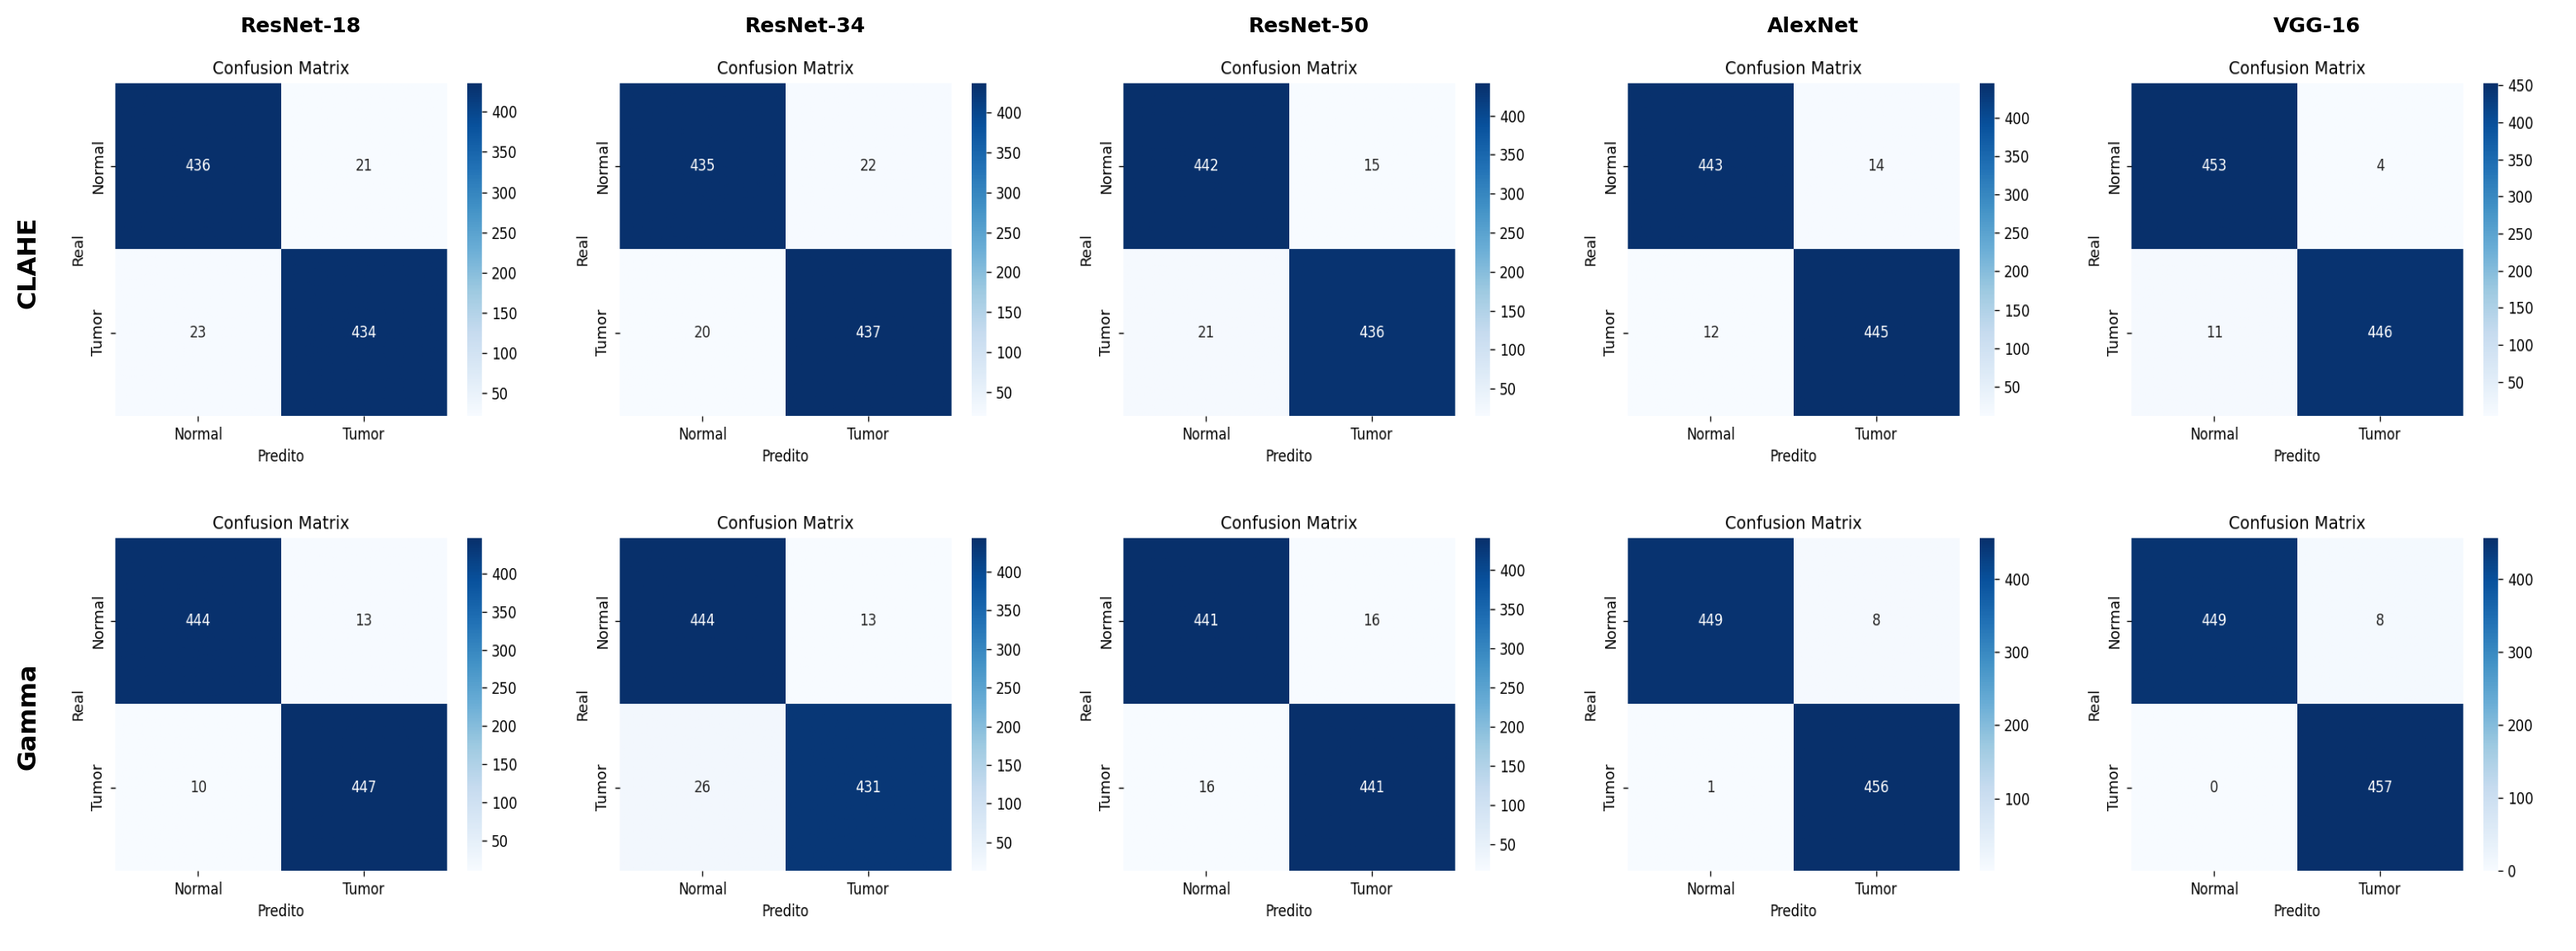
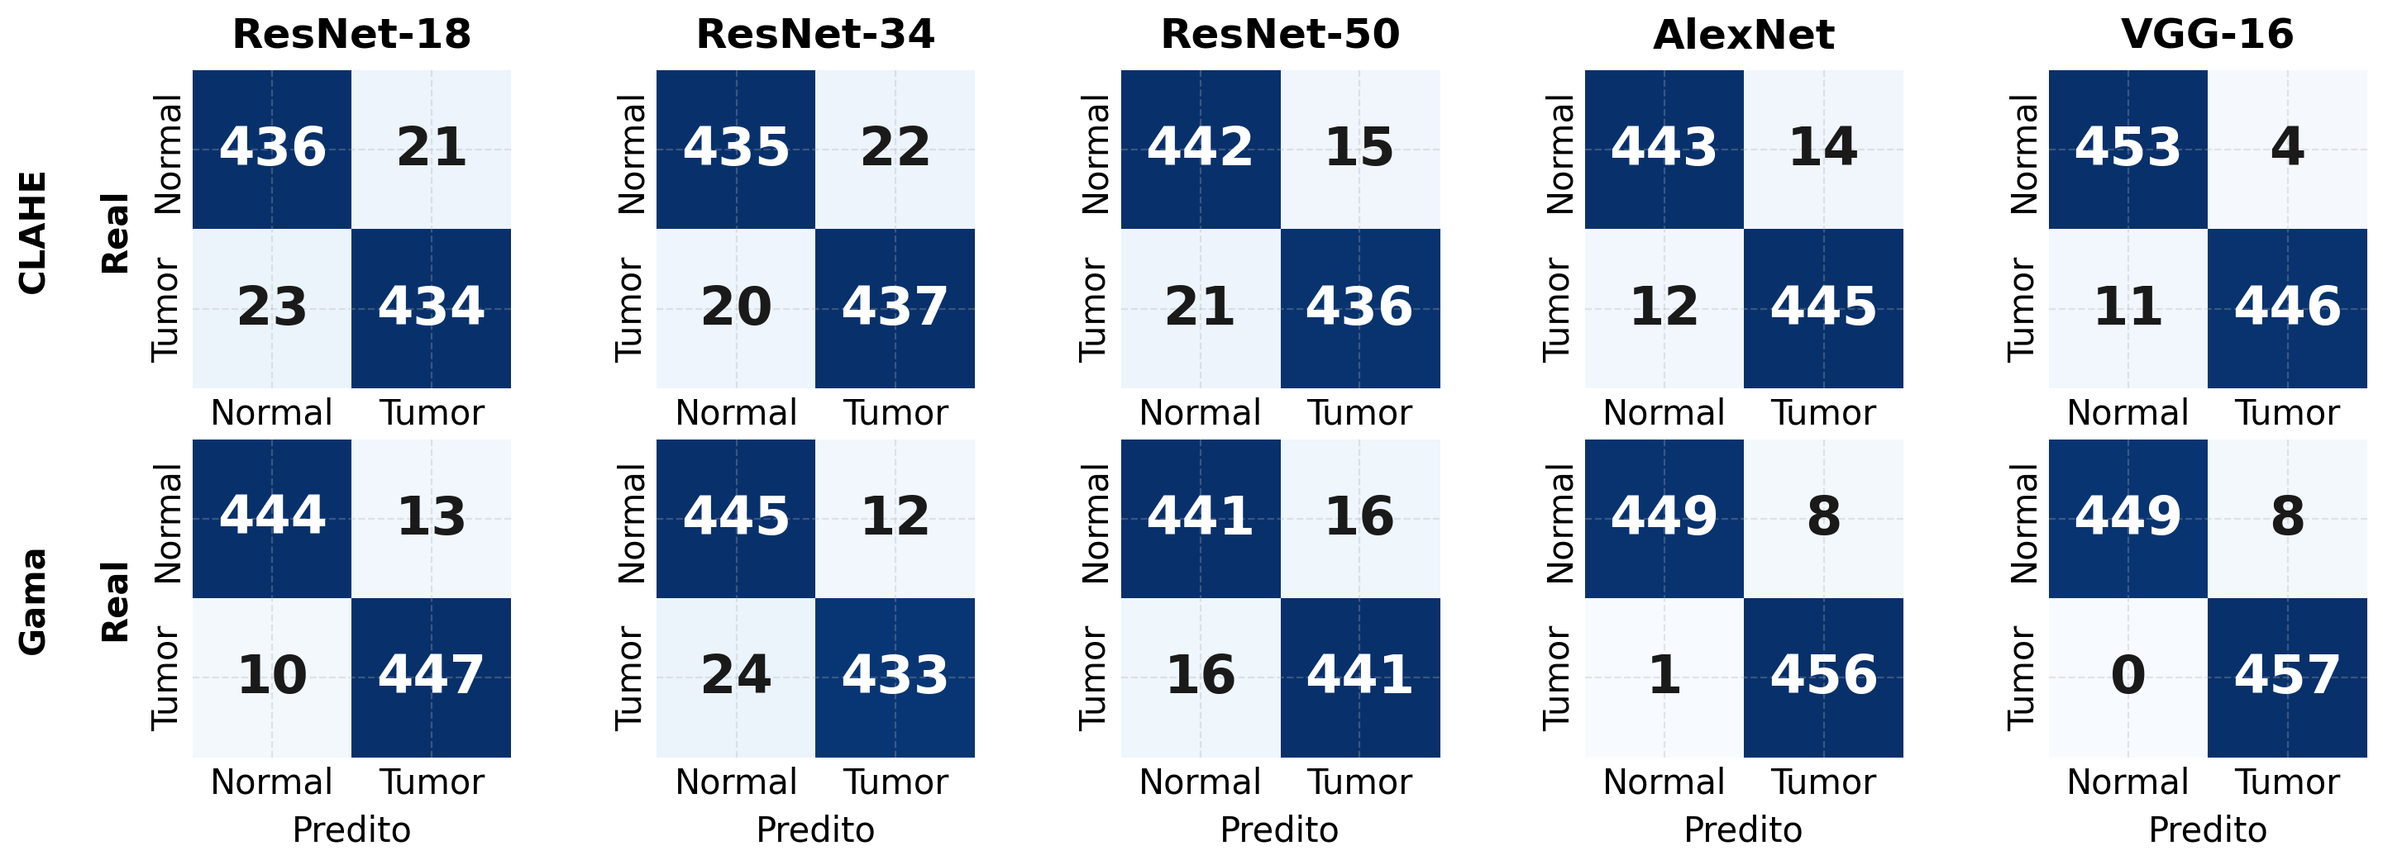
Reavalia experimentos com determinismo e refaz a Fig. 4
Revisor 1 (item 5) pediu fontes maiores na Fig. 4. A figura era montada
colando os PNGs de cada run, que ficavam ilegíveis ao serem reescalonados
para a largura da página. Agora as matrizes são desenhadas a partir das
contagens, com fontes dimensionadas para o tamanho final.

Ao conferir a origem dos números, 3 das 15 células da Tabela I não batiam
com os dados em disco: o retest.py sobrescrevia apenas o test_results.yaml
sem regerar as matrizes, deixando figura e tabela divergentes — inclusive
no PDF submetido, onde a Fig. 4 mostrava 99,02% para AlexNet+Gama enquanto
a tabela dizia 98,80%.

Causa: inferência não determinística (seleção de kernel do cuDNN). Corrigido
com cudnn.deterministic; duas execuções seguidas agora dão resultados
idênticos. Os 15 experimentos foram reavaliados a partir dos pesos salvos,
sem retreino.

Tabela I atualizada (ResNet-34 Gama, ResNet-50 Base, AlexNet Gama), com os
negritos recalculados, e o texto ajustado. A correção gama passa a
beneficiar as cinco arquiteturas sem exceção.

Também corrige os tamanhos do split (2.738/914/914, antes 2.739/913/914)
e o rótulo "Gamma" para "Gama" nas figuras.

diff --git a/docs/plot_results.py b/docs/plot_results.py
@@ -19,11 +19,15 @@ ROOT_DIR   = SCRIPT_DIR.parent                      # Etapa1/
 RUNS_DIR   = ROOT_DIR / 'runs'
 OUT_DIR    = SCRIPT_DIR
 
+import yaml
 import pandas as pd
 import matplotlib
 matplotlib.use('Agg')
 import matplotlib.pyplot as plt
 import numpy as np
+
+CLASSES        = ['Normal', 'Tumor']
+N_POR_CLASSE   = 457          # conjunto de teste balanceado: 914 amostras
 
 # ── Configuração ──────────────────────────────────────────────────────────────
 
@@ -36,7 +40,7 @@ MODELS = [
 ]
 CONDITIONS = [
     ('CLAHE', 'clahe'),
-    ('Gamma', 'gamma'),
+    ('Gama',  'gamma'),
 ]
 
 BLUE   = '#2E75B6'
@@ -170,46 +174,89 @@ def plot_loss_curves():
 
 # ── Figura 3: Matrizes de Confusão Compostas ──────────────────────────────────
 
-def compose_confusion():
-    n_cond = len(CONDITIONS)
-    n_mod  = len(MODELS)
+def load_counts(slug: str, cond: str):
+    """
+    Lê (TN, FP, FN, TP) do test_results.yaml do run.
 
+    As contagens são gravadas pelo retest.py. Para runs avaliados antes dessa
+    mudança, deriva-as de precisão e recall — exato, pois o conjunto de teste
+    é balanceado (457 amostras por classe).
+    """
+    path = RUNS_DIR / f'{slug}_{cond}' / 'test_results.yaml'
+    if not path.exists():
+        print(f'  [AVISO] não encontrado: {path}')
+        return None
+
+    d = yaml.safe_load(path.read_text(encoding='utf-8'))
+    if all(k in d for k in ('test_tn', 'test_fp', 'test_fn', 'test_tp')):
+        return d['test_tn'], d['test_fp'], d['test_fn'], d['test_tp']
+
+    prec, rec = d['test_precision'], d['test_recall']
+    tp = round(rec / 100 * N_POR_CLASSE)
+    fn = N_POR_CLASSE - tp
+    fp = round(tp * (100 - prec) / prec) if prec > 0 else 0
+    tn = N_POR_CLASSE - fp
+    print(f'  [nota] {slug}_{cond}: contagens derivadas das métricas')
+    return tn, fp, fn, tp
+
+
+def compose_confusion():
+    """
+    Desenha as matrizes de confusão a partir das contagens.
+
+    A versão anterior colava os PNGs de cada run, que ficavam ilegíveis após o
+    reescalonamento para a largura da página.
+    """
+    # Proporção mantida próxima de 2,7:1 para que a figura ocupe a mesma
+    # altura de coluna da versão anterior e a paginação do artigo não mude.
+    n_cond, n_mod = len(CONDITIONS), len(MODELS)
     fig, axes = plt.subplots(
         n_cond, n_mod,
-        figsize=(18, 7),
-        gridspec_kw={'hspace': 0.04, 'wspace': 0.04},
+        figsize=(17.5, 5.4),
+        gridspec_kw={'hspace': 0.16, 'wspace': 0.20},
     )
 
     for ci, (cond_label, cond_slug) in enumerate(CONDITIONS):
         for mi, (model_label, model_slug) in enumerate(MODELS):
-            ax = axes[ci, mi]
-            img_path = RUNS_DIR / f'{model_slug}_{cond_slug}' / 'confusion_matrix.png'
+            ax     = axes[ci, mi]
+            counts = load_counts(model_slug, cond_slug)
 
-            if img_path.exists():
-                img = plt.imread(str(img_path))
-                ax.imshow(img, aspect='auto')
-            else:
-                print(f'  [AVISO] matriz não encontrada: {img_path}')
+            if counts is None:
                 ax.set_facecolor('#eeeeee')
                 ax.text(0.5, 0.5, 'N/A', ha='center', va='center',
-                        transform=ax.transAxes, fontsize=13, color='#888888')
+                        transform=ax.transAxes, fontsize=16, color='#888888')
+                ax.set_xticks([]); ax.set_yticks([])
+                continue
 
-            # Esconde ticks e bordas, mantém ylabel visível
-            ax.set_xticks([])
-            ax.set_yticks([])
-            for spine in ax.spines.values():
-                spine.set_visible(False)
+            tn, fp, fn, tp = counts
+            cm = np.array([[tn, fp], [fn, tp]])
 
-            # Nome do modelo — só na primeira linha
+            ax.imshow(cm, cmap='Blues', vmin=0, vmax=cm.max())
+
+            # Valores nas células, com contraste conforme o fundo
+            limiar = cm.max() / 2
+            for i in range(2):
+                for j in range(2):
+                    ax.text(j, i, f'{cm[i, j]:d}',
+                            ha='center', va='center',
+                            fontsize=23, fontweight='bold',
+                            color='white' if cm[i, j] > limiar else '#1a1a1a')
+
+            ax.set_xticks([0, 1]); ax.set_yticks([0, 1])
+            ax.set_xticklabels(CLASSES, fontsize=15)
+            ax.set_yticklabels(CLASSES, fontsize=15, rotation=90, va='center')
+            ax.tick_params(length=0)
+            for s in ax.spines.values():
+                s.set_visible(False)
+
             if ci == 0:
-                ax.set_title(model_label, fontsize=9, fontweight='bold', pad=5)
-
-            # Rótulo da condição — só na primeira coluna, vertical
+                ax.set_title(model_label, fontsize=18, fontweight='bold', pad=10)
+            if ci == n_cond - 1:
+                ax.set_xlabel('Predito', fontsize=15, labelpad=6)
             if mi == 0:
-                ax.set_ylabel(cond_label, fontsize=11, fontweight='bold',
-                              rotation=90, labelpad=8)
+                ax.set_ylabel(f'{cond_label}\n\nReal', fontsize=15,
+                              fontweight='bold', labelpad=8)
 
-    plt.subplots_adjust(left=0.06)
     out = OUT_DIR / 'fig_confusion.png'
     fig.savefig(out, dpi=200, bbox_inches='tight')
     plt.close(fig)

diff --git a/docs/main.tex b/docs/main.tex
@@ -374,8 +374,8 @@ objetivo de discriminação entre tecido renal saudável e tumoral. Para
 garantir equilíbrio entre as classes, foram selecionadas aleatoriamente
 2.283 imagens da classe Normal (correspondendo ao total disponível da classe
 Tumor), totalizando 4.566 imagens. O conjunto balanceado foi dividido de
-forma estratificada nas proporções de 60\% treino (2.739 imagens), 20\%
-validação (913 imagens) e 20\% teste (914 imagens), com semente aleatória
+forma estratificada nas proporções de 60\% treino (2.738 imagens), 20\%
+validação (914 imagens) e 20\% teste (914 imagens), com semente aleatória
 $s{=}42$ para reprodutibilidade. A Fig.~\ref{fig:pipeline} ilustra o fluxo
 completo desde a seleção dos dados até a avaliação.
 
@@ -520,19 +520,19 @@ experimentos. Resultados em negrito indicam o melhor valor por modelo.
  & Gama & \textbf{97,48} & 97,17 & \textbf{97,81} & \textbf{97,49} \\
 \midrule
 \multirow{3}{*}{ResNet-34}
- & Base  & 95,19 & 95,59 & 94,75 & 95,16 \\
+ & Base  & 95,19 & 95,58 & 94,75 & 95,16 \\
  & CLAHE & 95,40 & 95,21 & \textbf{95,62} & 95,41 \\
- & Gama & \textbf{95,73} & \textbf{97,07} & 94,31 & \textbf{95,67} \\
+ & Gama & \textbf{96,06} & \textbf{97,30} & 94,75 & \textbf{96,01} \\
 \midrule
 \multirow{3}{*}{ResNet-50}
- & Base  & 95,62 & 95,42 & 95,84 & 95,63 \\
+ & Base  & 95,73 & 95,43 & 96,06 & 95,75 \\
  & CLAHE & 96,06 & \textbf{96,67} & 95,40 & 96,04 \\
  & Gama & \textbf{96,50} & 96,50 & \textbf{96,50} & \textbf{96,50} \\
 \midrule
 \multirow{3}{*}{AlexNet}
- & Base  & \textbf{98,91} & 98,48 & \textbf{99,34} & \textbf{98,91} \\
+ & Base  & 98,91 & \textbf{98,48} & 99,34 & 98,91 \\
  & CLAHE & 97,16 & 96,95 & 97,37 & 97,16 \\
- & Gama & 98,80 & 98,48 & 99,12 & 98,80 \\
+ & Gama & \textbf{99,02} & 98,28 & \textbf{99,78} & \textbf{99,02} \\
 \midrule
 \multirow{3}{*}{VGG-16}
  & Base  & 98,91 & 98,06 & 99,78 & 98,92 \\
@@ -547,12 +547,13 @@ experimentos. Resultados em negrito indicam o melhor valor por modelo.
 
 \textbf{Arquiteturas ResNet.} A correção gama ($\gamma{=}0{,}7$) beneficiou
 consistentemente todas as arquiteturas ResNet, com ganhos de $+0{,}54$ p.p.\
-(ResNet-18 e ResNet-34) e $+0{,}88$ p.p.\ (ResNet-50) sobre a condição base.
+(ResNet-18), $+0{,}87$ p.p.\ (ResNet-34) e $+0{,}77$ p.p.\ (ResNet-50) sobre a
+condição base.
 O mapeamento não linear da \eqref{eq:gamma} clareia regiões escuras
 correspondentes a tecido tumoral de baixo contraste espontâneo, evidenciando
 padrões que os blocos residuais exploram com maior eficiência. O CLAHE
 produziu queda de $-1{,}75$ p.p.\ na ResNet-18 e ganhos discretos nas demais
-($+0{,}21$ p.p.\ na ResNet-34 e $+0{,}44$ p.p.\ na ResNet-50), sugerindo que
+($+0{,}21$ p.p.\ na ResNet-34 e $+0{,}33$ p.p.\ na ResNet-50), sugerindo que
 os artefatos de borda entre \textit{tiles} perturbam sobretudo as ativações
 das primeiras camadas convolucionais das redes mais rasas.
 
@@ -560,7 +561,7 @@ das primeiras camadas convolucionais das redes mais rasas.
 base, superando as ResNets (entre $95\%$ e $97\%$). O CLAHE causou queda de
 $-1{,}75$ p.p.\ na AlexNet ($97{,}16\%$) e queda menor de $-0{,}55$ p.p.\ na
 VGG-16 ($98{,}36\%$). A correção gama, por ser uma transformação monotônica
-suave, elevou o desempenho de ambas: a AlexNet atingiu $98{,}80\%$ e a VGG-16
+suave, elevou o desempenho de ambas: a AlexNet atingiu $99{,}02\%$ e a VGG-16
 alcançou \textbf{99,12\%}, melhor resultado global do experimento, com
 revocação de $100\%$ na classe Tumor. O comportamento é atribuído ao
 classificador denso de três camadas totalmente conectadas presente em ambas
@@ -627,10 +628,10 @@ pré-processamento CLAHE e correção gama sobre o desempenho de cinco
 arquiteturas CNN na classificação de câncer renal em imagens tomográficas.
 
 A correção gama com $\gamma{=}0{,}7$ demonstrou ser a
-técnica de pré-processamento mais consistente entre as avaliadas, beneficiando
-ou mantendo estável o desempenho de todas as arquiteturas: os ganhos variaram
-de $+0{,}21$ p.p.\ na VGG-16 a $+0{,}88$ p.p.\ na ResNet-50, com impacto
-mínimo de $-0{,}11$ p.p.\ na AlexNet. O melhor resultado global foi obtido
+técnica de pré-processamento mais consistente entre as avaliadas, sendo a
+única que beneficiou todas as cinco arquiteturas sem exceção: os ganhos
+variaram de $+0{,}11$ p.p.\ na AlexNet a $+0{,}87$ p.p.\ na ResNet-34.
+O melhor resultado global foi obtido
 pela VGG-16 com correção gama, que alcançou $99{,}12\%$ de acurácia e
 revocação de $100\%$ na classe Tumor, evidenciando o potencial da técnica para
 reduzir falsos negativos em cenários de rastreamento oncológico.

diff --git a/retest.py b/retest.py
@@ -15,11 +15,18 @@ import torch.nn as nn
 import numpy as np
 import pandas as pd
 from pathlib import Path
-from sklearn.metrics import precision_score, recall_score, f1_score
+from sklearn.metrics import (precision_score, recall_score, f1_score,
+                             confusion_matrix)
 
 SEED = 42
 torch.manual_seed(SEED)
 np.random.seed(SEED)
+torch.cuda.manual_seed_all(SEED)
+
+# Inferência determinística: sem isso a seleção de kernels do cuDNN pode fazer
+# amostras na fronteira de decisão trocarem de classe entre execuções.
+torch.backends.cudnn.deterministic = True
+torch.backends.cudnn.benchmark     = False
 
 _MODEL_BUILDERS = {
     'ResNet-18': 'model_resnet18',
@@ -67,6 +74,7 @@ def main():
 
     import kagglehub
     import dataset as ds
+    import trainer
 
     device = torch.device('cuda' if torch.cuda.is_available() else 'cpu')
     print(f'Device: {device}\n')
@@ -106,6 +114,13 @@ def main():
 
         model_name = cfg.get('model')
         condition  = cfg.get('condition')
+
+        # Runs fora do escopo do artigo (outras arquiteturas ou condições)
+        if model_name not in _MODEL_BUILDERS or condition not in ds._PREPROC:
+            print(f'Pulando    {run_dir.name}  ({model_name} / {condition}) '
+                  f'— fora do escopo do artigo')
+            continue
+
         print(f'Avaliando  {run_dir.name}  ({model_name} / {condition})...')
 
         try:
@@ -119,6 +134,7 @@ def main():
             prec = precision_score(y_true, y_pred, zero_division=0) * 100
             rec  = recall_score(y_true,   y_pred, zero_division=0) * 100
             f1   = f1_score(y_true,       y_pred, zero_division=0) * 100
+            tn, fp, fn, tp = confusion_matrix(y_true, y_pred).ravel()
 
             result = {
                 'test_acc':       round(acc,  4),
@@ -126,9 +142,17 @@ def main():
                 'test_precision': round(prec, 4),
                 'test_recall':    round(rec,  4),
                 'test_f1':        round(f1,   4),
+                # Contagens da matriz de confusão (classe positiva: Tumor).
+                # Persistidas para que as figuras sejam geradas a partir dos
+                # mesmos números da tabela, sem depender de PNGs rasterizados.
+                'test_tn': int(tn), 'test_fp': int(fp),
+                'test_fn': int(fn), 'test_tp': int(tp),
             }
             with open(run_dir / 'test_results.yaml', 'w') as f:
                 yaml.dump(result, f, default_flow_style=False)
+
+            # Regera as matrizes do run para manterem-se coerentes com o YAML
+            trainer.save_confusion_matrices(y_true, y_pred, run_dir)
 
             rows.append({'Run': run_dir.name, 'Modelo': model_name,
                          'Condição': condition, **result})
@@ -149,8 +173,12 @@ def main():
     for col in ['test_acc', 'test_loss', 'test_precision', 'test_recall', 'test_f1']:
         df[col] = df[col].apply(lambda x: f'{x:.2f}%')
 
+    df = df[['Run', 'Modelo', 'Condição',
+             'test_acc', 'test_loss', 'test_precision', 'test_recall', 'test_f1',
+             'test_tn', 'test_fp', 'test_fn', 'test_tp']]
     df.columns = ['Run', 'Modelo', 'Condição',
-                  'Test Acc', 'Test Loss', 'Precision', 'Recall', 'F1']
+                  'Test Acc', 'Test Loss', 'Precision', 'Recall', 'F1',
+                  'TN', 'FP', 'FN', 'TP']
 
     print('\n' + '═' * 95)
     print('  RESULTADO DE TESTE — todos os runs')

diff --git a/src/trainer.py b/src/trainer.py
@@ -178,18 +178,20 @@ def _save_pr_curve(history, run_dir):
     plt.close()
 
 
-def _save_confusion_matrices(y_true, y_pred, run_dir):
+def save_confusion_matrices(y_true, y_pred, run_dir):
+    """Salva as matrizes de confusão (absoluta e normalizada) do run."""
     cm     = confusion_matrix(y_true, y_pred)
     cm_n   = cm.astype(float) / cm.sum(axis=1, keepdims=True)
 
     for mat, fname, fmt in [(cm, 'confusion_matrix.png', 'd'),
                              (cm_n, 'confusion_matrix_n.png', '.2f')]:
         fig, ax = plt.subplots(figsize=(5, 4))
-        sns.heatmap(mat, annot=True, fmt=fmt, cmap='Blues',
+        sns.heatmap(mat, annot=True, fmt=fmt, cmap='Blues', cbar=False,
+                    annot_kws={'size': 20},
                     xticklabels=CLASSES, yticklabels=CLASSES, ax=ax)
-        ax.set_xlabel('Predito')
-        ax.set_ylabel('Real')
-        ax.set_title('Confusion Matrix' + (' (normalizada)' if fmt == '.2f' else ''))
+        ax.set_xlabel('Predito', fontsize=13)
+        ax.set_ylabel('Real',    fontsize=13)
+        ax.tick_params(labelsize=12)
         plt.tight_layout()
         plt.savefig(run_dir / fname, dpi=120)
         plt.close()
@@ -328,7 +330,7 @@ def train_model(model, loaders, model_name: str, condition: str,
     _save_curve(history, 'metrics/precision',  'Precision', run_dir)
     _save_curve(history, 'metrics/recall',     'Recall',    run_dir)
     _save_pr_curve(history, run_dir)
-    _save_confusion_matrices(y_true, y_pred, run_dir)
+    save_confusion_matrices(y_true, y_pred, run_dir)
 
     print(f'\n  Run salvo em: {run_dir}')
     print(f'  weights/best.pt  (val_acc={best_val_acc:.2f}%)')
